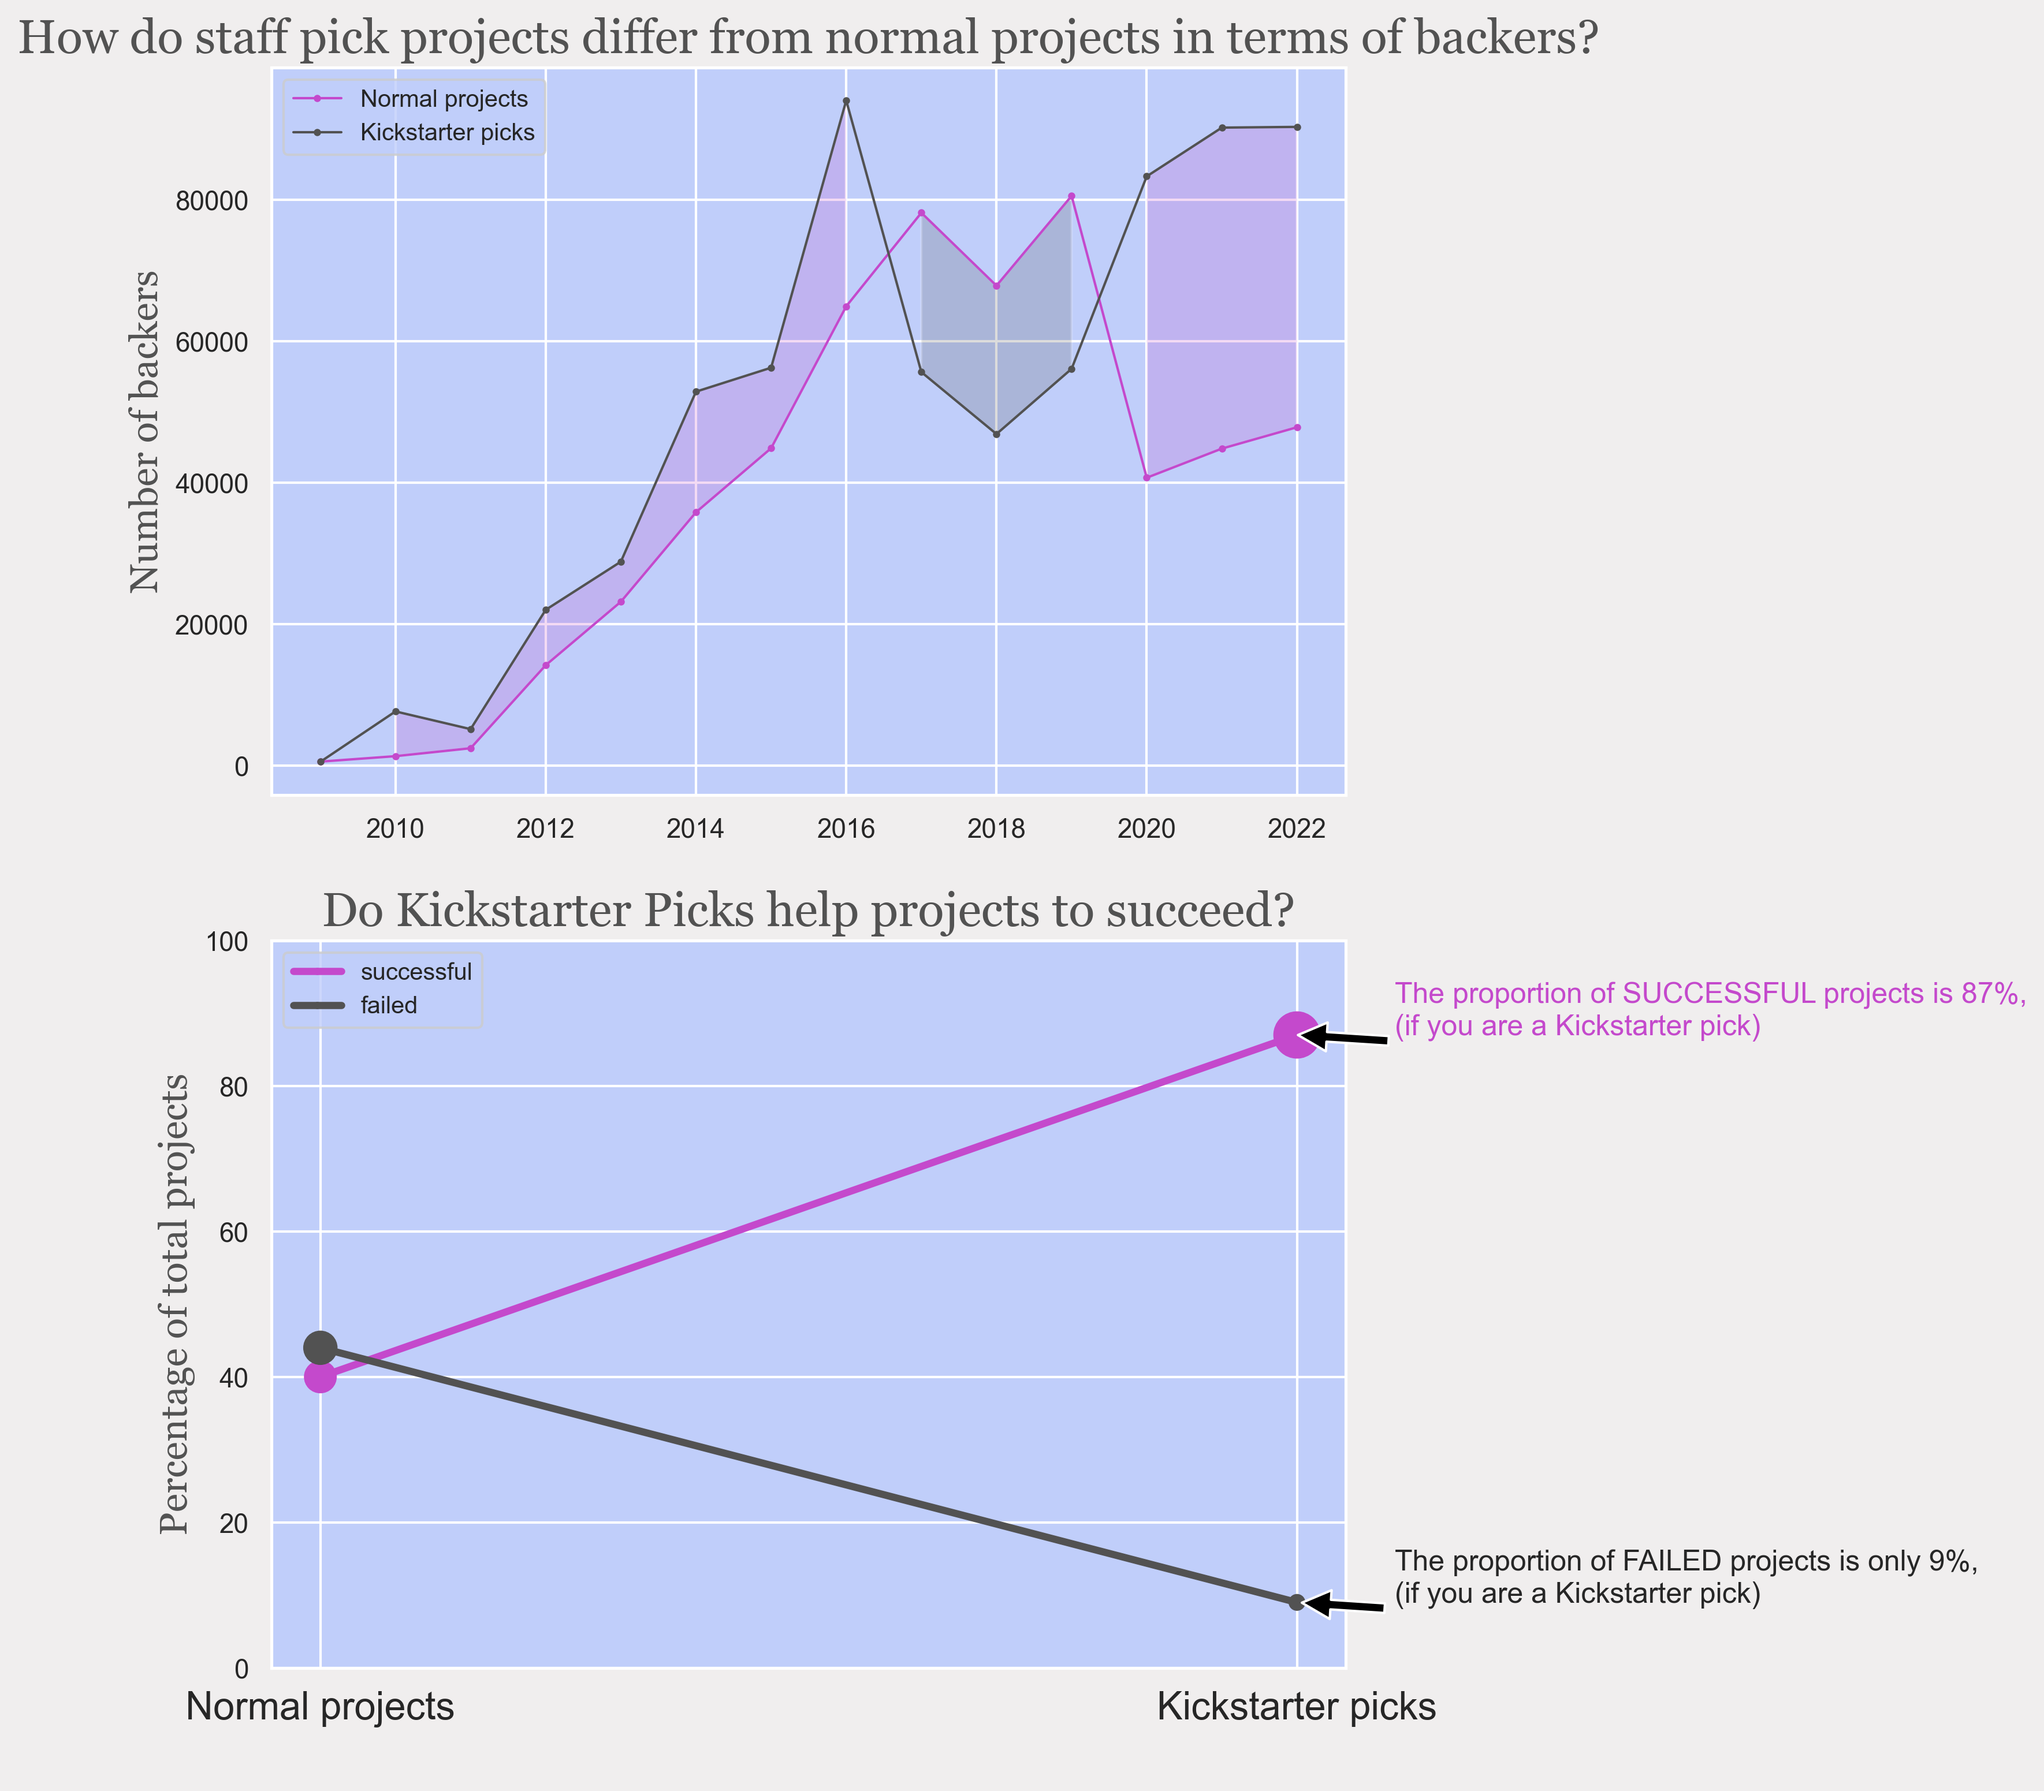
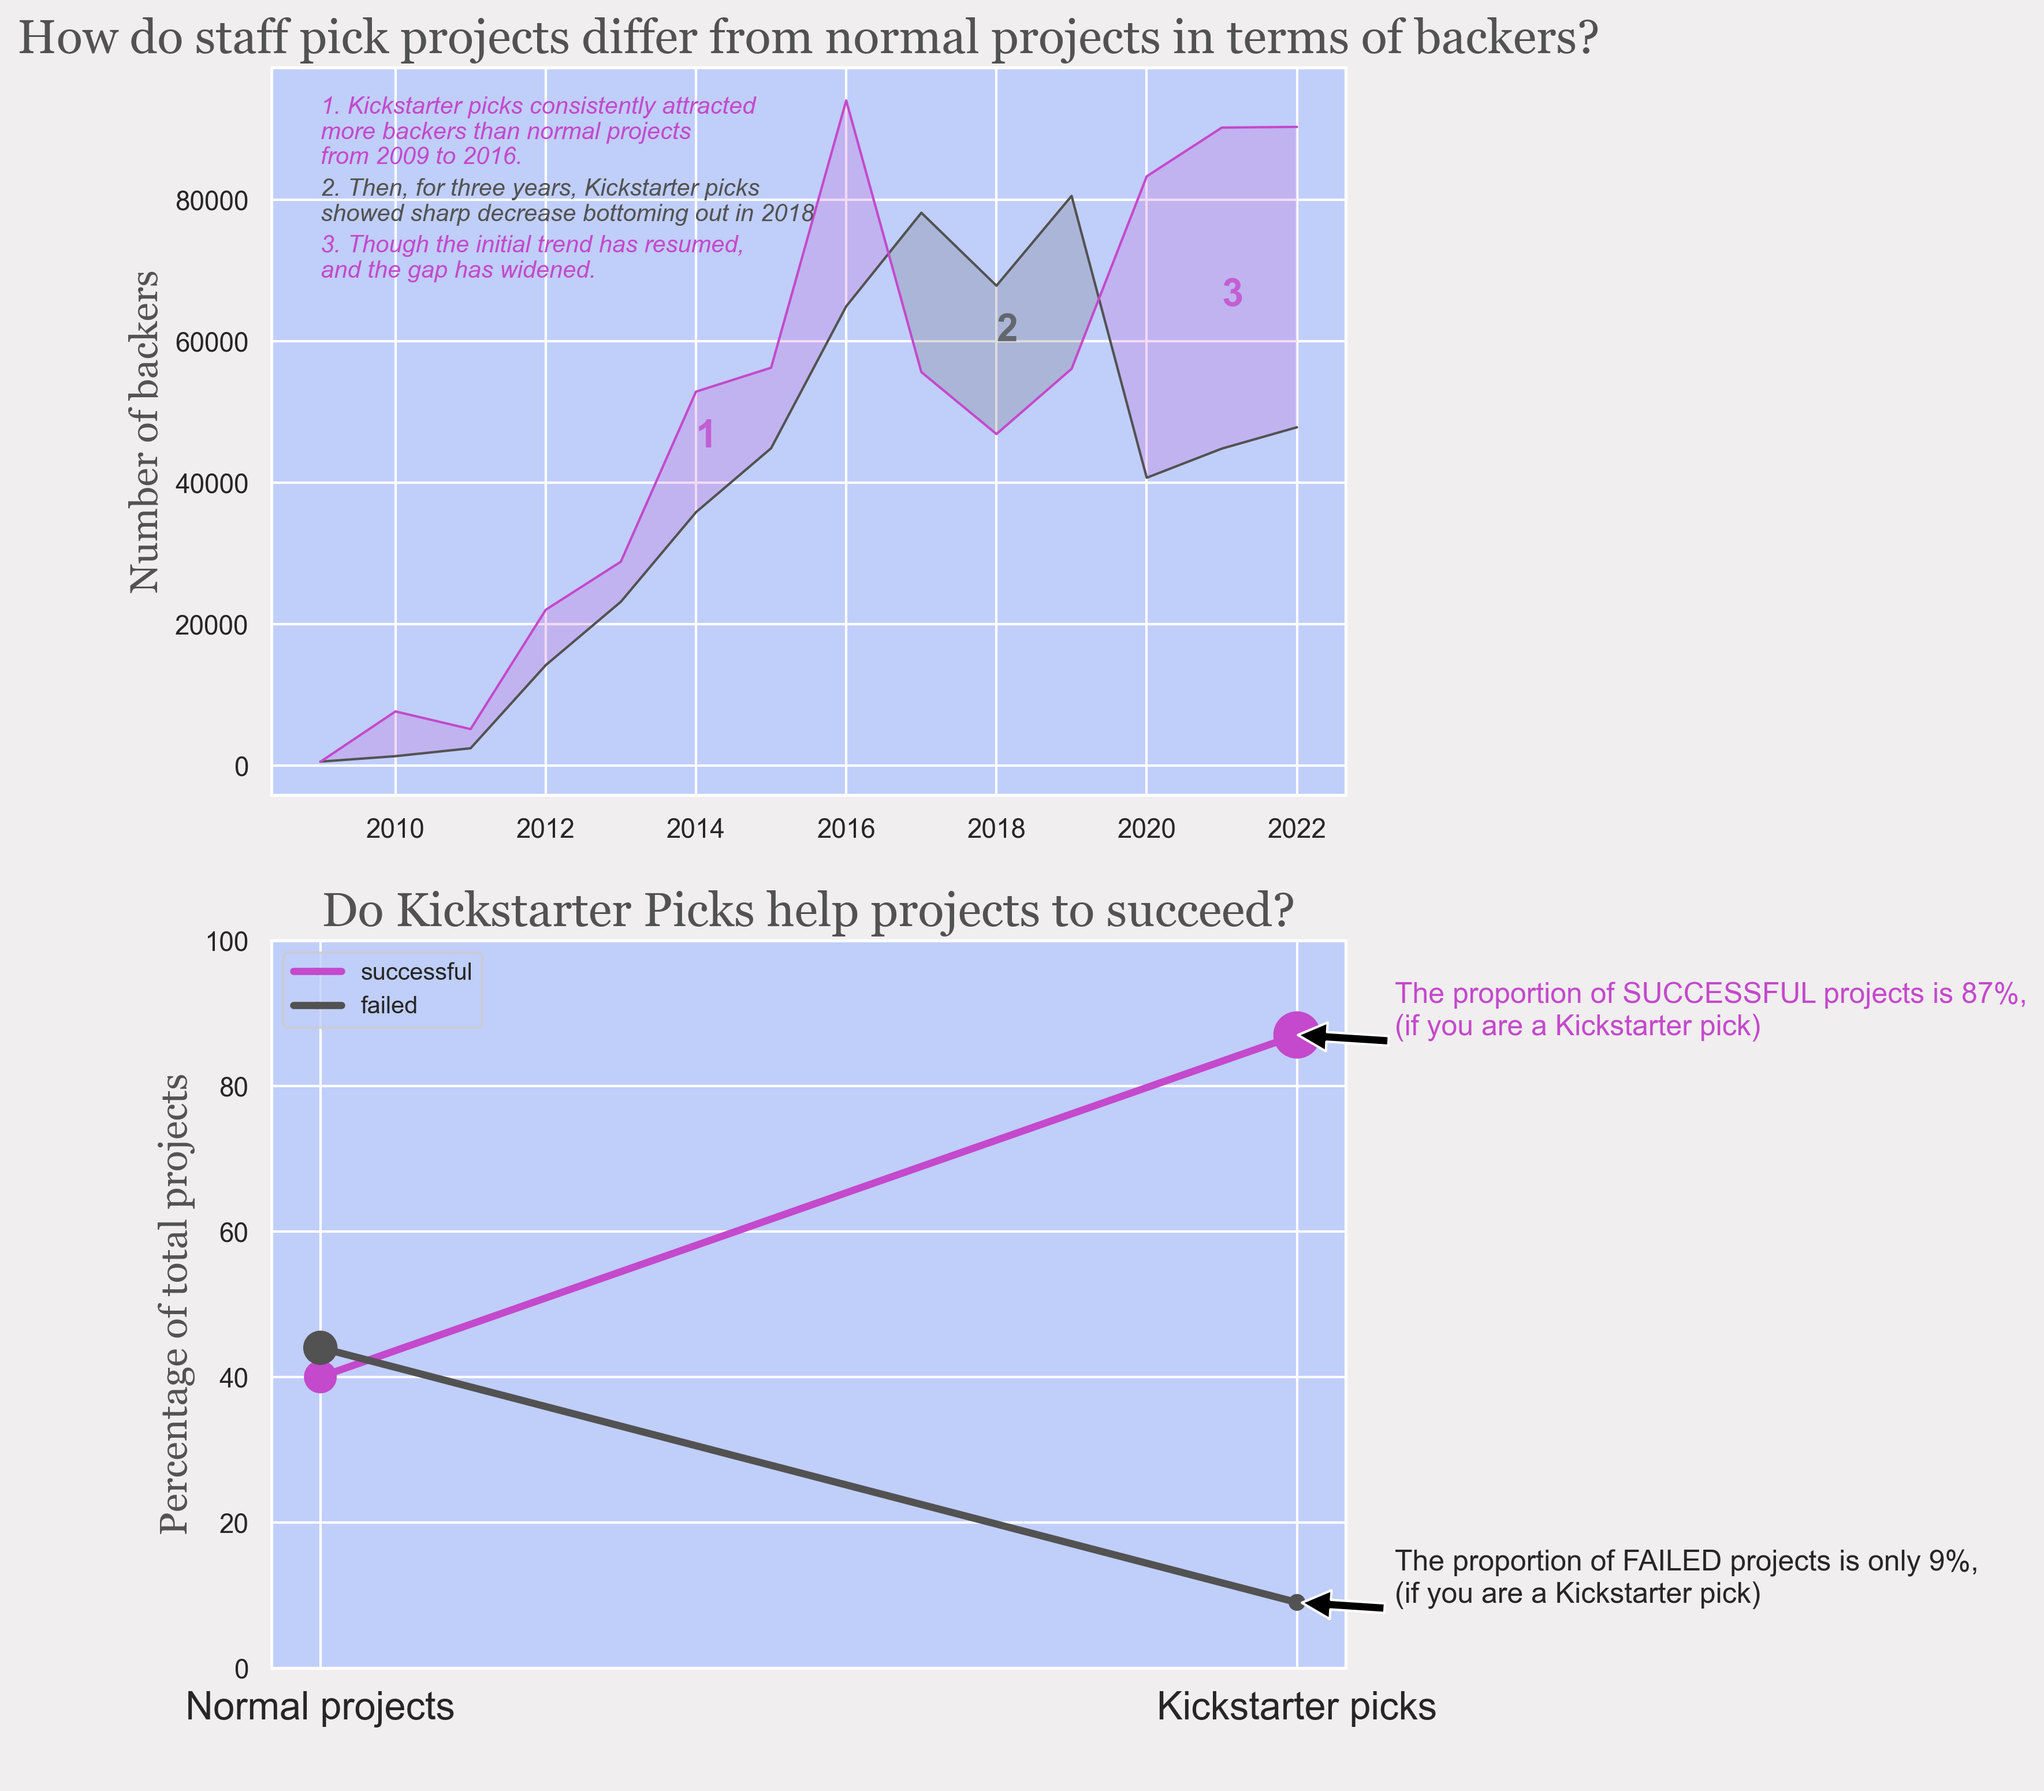
Final plot DATA605 (updated)

Changed region(s): [[0.1554, 0.0309, 0.4662, 0.2166], [0.4973, 0.1238, 0.5595, 0.2476], [0.1554, 0.4023, 0.2176, 0.4333]]

diff --git a/DATA605/datathons/kickstarter.py b/DATA605/datathons/kickstarter.py
@@ -56,13 +56,22 @@ kickstarter_backers = kickstarter_backers.dropna(axis=0)
 fig, (ax1, ax2) = plt.subplots(2, 1, facecolor='#f0eeee')
 fig.set_size_inches(8, 12)
 # Plot the line graph of 'Staff Pick' and 'backers_count'
-kickstarter_backers.plot(kind='line', ax=ax1, color=['#c449cc', '#525252'], marker='o', linewidth=1, ms=2)
+kickstarter_backers.plot(kind='line', ax=ax1, color=['#525252', '#c449cc'], marker='', linewidth=1, ms=2)
 # Change the line type
 plt.rcParams['lines.linestyle'] = '-'
 # Fill the area between the two lines depending on which line is higher
-ax1.fill_between(kickstarter_backers.index, kickstarter_backers['Normal projects'], kickstarter_backers['Kickstarter picks'], where=kickstarter_backers['Normal projects'] < kickstarter_backers['Kickstarter picks'], facecolor='#c449cc', alpha=0.2)
-ax1.fill_between(kickstarter_backers.index, kickstarter_backers['Normal projects'], kickstarter_backers['Kickstarter picks'], where=kickstarter_backers['Normal projects'] > kickstarter_backers['Kickstarter picks'], facecolor='#525252', alpha=0.2)
-# Put text on the plot in the middle of the area between the two lines between 2020 and 2022
+ax1.fill_between(kickstarter_backers.index, kickstarter_backers['Normal projects'], kickstarter_backers['Kickstarter picks'], where=kickstarter_backers['Normal projects'] < kickstarter_backers['Kickstarter picks'], facecolor='#c449cc', alpha=0.2, interpolate=True)
+ax1.fill_between(kickstarter_backers.index, kickstarter_backers['Normal projects'], kickstarter_backers['Kickstarter picks'], where=kickstarter_backers['Normal projects'] > kickstarter_backers['Kickstarter picks'], facecolor='#525252', alpha=0.2, interpolate=True)
+# Annotation text
+ann_text1 = '1. Kickstarter picks consistently attracted \nmore backers than normal projects \nfrom 2009 to 2016.'
+ann_text2 = '2. Then, for three years, Kickstarter picks \nshowed sharp decrease bottoming out in 2018'
+ann_text3 = '3. Though the initial trend has resumed, \nand the gap has widened.'
+ax1.text(x=2014, y=45000, s='1', color='#c449cc', fontsize=16, weight='bold', alpha=0.8)
+ax1.text(x=2018, y=60000, s='2', color='#525252', fontsize=16, weight='bold', alpha=0.8)
+ax1.text(x=2021, y=65000, s='3', color='#c449cc', fontsize=16, weight='bold', alpha=0.8)
+ax1.text(x=2009, y=85000, s=ann_text1 , color='#c449cc', fontsize=10, fontstyle='italic', alpha=1)
+ax1.text(x=2009, y=77000, s=ann_text2 , color='#525252', fontsize=10, fontstyle='italic', alpha=1)
+ax1.text(x=2009, y=69000, s=ann_text3 , color='#c449cc', fontsize=10, fontstyle='italic', alpha=1)
 
 # Make the plot look nice
 ax1.set_title('How do staff pick projects differ from normal projects in terms of backers?', fontsize=20, color=font_color, **csfont)
@@ -71,6 +80,8 @@ ax1.set_ylabel('Number of backers', fontsize=16, color=font_color, **hfont)
 # Change legend title and font size
 ax1.legend(title='', title_fontsize=16, fontsize=16)
 ax1.legend(loc=2, prop={'size': 10})
+# Legend false
+ax1.legend().set_visible(False)
 
 
 # Plot line on that figure
